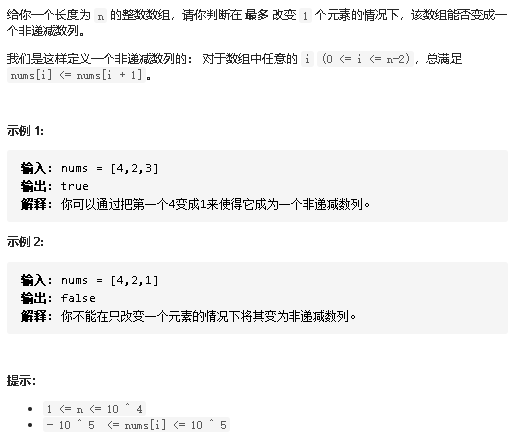
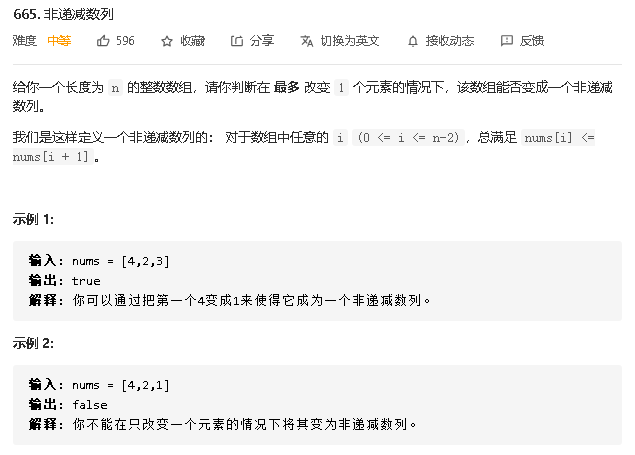
非递减数列

diff --git a/《力扣算法训练提升》/《力扣算法训练提升》数组篇/3-数组操作/2-《力扣算法训练提升》数组篇-打卡数组操作-【665】非递减数列/初版-【665】非递减数列.md b/《力扣算法训练提升》/《力扣算法训练提升》数组篇/3-数组操作/2-《力扣算法训练提升》数组篇-打卡数组操作-【665】非递减数列/初版-【665】非递减数列.md
@@ -1,6 +1,6 @@
-### 《力扣算法训练提升》图解数组篇-打卡数组统计-【435】最小移动次数使数组元素相等
+### 《力扣算法训练提升》图解数组篇-打卡数组统计-【665】非递减数列
 
-![打卡]
+![打卡](C:\Users\zhiyuan\Desktop\daily-notes\《力扣算法训练提升》\《力扣算法训练提升》数组篇\3-数组操作\2-《力扣算法训练提升》数组篇-打卡数组操作-【665】非递减数列\打卡.jpg)
 
 ### 数组的基本特性
 
@@ -12,23 +12,43 @@
 
 ### 囧么肥事今日打卡题目
 
-**力扣【435.最小移动次数使数组元素相等】**
+**力扣【665.非递减数列】**
 
-给定一个长度为 *n* 的 **非空** 整数数组，每次操作将会使 *n* - 1 个元素增加 1。找出让数组所有元素相等的最小操作次数。
+给你一个长度为 n 的整数数组，请你判断在 最多 改变 1 个元素的情况下，该数组能否变成一个非递减数列。
+
+我们是这样定义一个非递减数列的： 对于数组中任意的 i (0 <= i <= n-2)，总满足 nums[i] <= nums[i + 1]。
+
+
 
 **具体描述**
 
-![算法描述]
+![算法描述](C:\Users\zhiyuan\Desktop\daily-notes\《力扣算法训练提升》\《力扣算法训练提升》数组篇\3-数组操作\2-《力扣算法训练提升》数组篇-打卡数组操作-【665】非递减数列\算法描述.png)
 
 ### 解题讨论
 
-![讨论分析]
+![算法讨论](C:\Users\zhiyuan\Desktop\daily-notes\《力扣算法训练提升》\《力扣算法训练提升》数组篇\3-数组操作\2-《力扣算法训练提升》数组篇-打卡数组操作-【665】非递减数列\算法讨论.png)
 
 
 
-**跨步计算示例**
+**低谷填坑示例**
 
-![示例]
+**对于数组构造峰谷折线图**
+
+![示例1](C:\Users\zhiyuan\Desktop\daily-notes\《力扣算法训练提升》\《力扣算法训练提升》数组篇\3-数组操作\2-《力扣算法训练提升》数组篇-打卡数组操作-【665】非递减数列\示例1.png)
+
+**4 1 6 形成低谷，其中 1 为谷底**
+
+![示例2](C:\Users\zhiyuan\Desktop\daily-notes\《力扣算法训练提升》\《力扣算法训练提升》数组篇\3-数组操作\2-《力扣算法训练提升》数组篇-打卡数组操作-【665】非递减数列\示例2.png)
+
+**两端谷峰分别为 4， 6**
+
+![示例3](C:\Users\zhiyuan\Desktop\daily-notes\《力扣算法训练提升》\《力扣算法训练提升》数组篇\3-数组操作\2-《力扣算法训练提升》数组篇-打卡数组操作-【665】非递减数列\示例3.png)
+
+![示例4](C:\Users\zhiyuan\Desktop\daily-notes\《力扣算法训练提升》\《力扣算法训练提升》数组篇\3-数组操作\2-《力扣算法训练提升》数组篇-打卡数组操作-【665】非递减数列\示例4.png)
+
+![示例5](C:\Users\zhiyuan\Desktop\daily-notes\《力扣算法训练提升》\《力扣算法训练提升》数组篇\3-数组操作\2-《力扣算法训练提升》数组篇-打卡数组操作-【665】非递减数列\示例5.png)
+
+![示例6](C:\Users\zhiyuan\Desktop\daily-notes\《力扣算法训练提升》\《力扣算法训练提升》数组篇\3-数组操作\2-《力扣算法训练提升》数组篇-打卡数组操作-【665】非递减数列\示例6.png)
 
 
 
@@ -36,12 +56,26 @@
 
 
 ```
-第一步：排序
-第二步：遍历数组，计算跨步，即最大值和最小值差值
-第三步：累加跨步
+遍历数组，遇到低谷区域，尝试取两端峰值填平低谷。
+
+从右往左遍历，以a[i] 为开始  a[i]~a[N-1] 范围内的数都是递增序列
+a[i] < a[L] ? L--
+a[i] >= a[L] ? 更新 a[i] = a[L]-1, L--
+
+从左往右遍历，以a[i] 为结束  a[0]~a[i]   范围内的数都是递增序列
+a[i] < a[R] ? R++
+a[i] >= a[R] ? 更新 a[i] = a[R]+1, R++
 ```
 
-![1-跨步]
+
+
+
+
+
+
+
+
+
 
 ### 动画模拟
 
